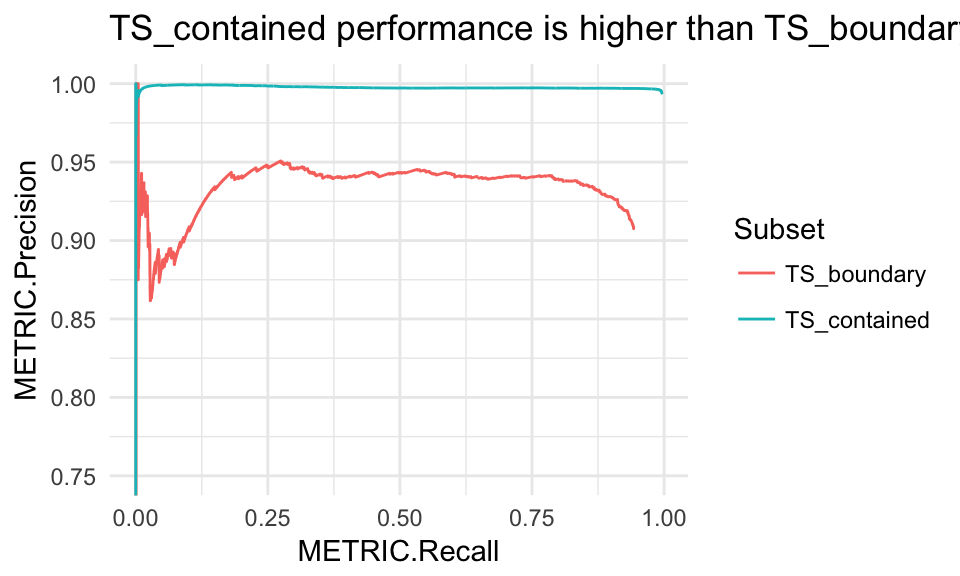
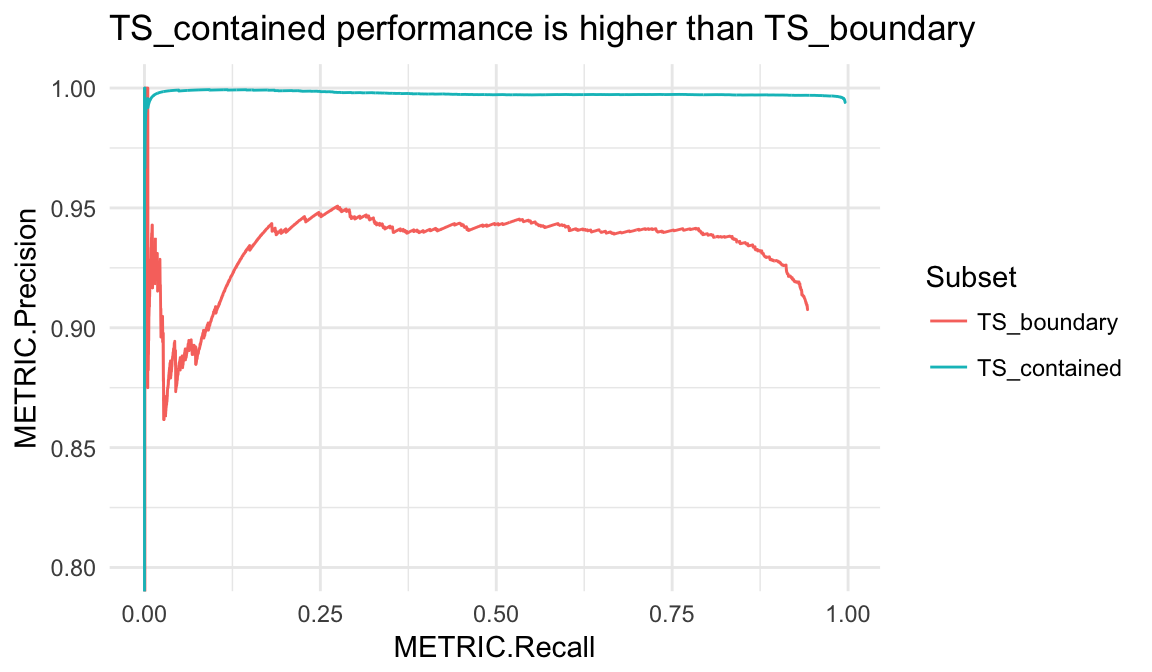
vignette tweak

diff --git a/docs/articles/Precision-recall_curves.html b/docs/articles/Precision-recall_curves.html
@@ -219,9 +219,9 @@ del_pr &lt;-<span class="st"> </span><span class="kw"><a href="../reference/pr_d
                   <span class="dt">subset =</span> <span class="kw">c</span>(<span class="st">"TS_contained"</span>, <span class="st">"TS_boundary"</span>))
 
 <span class="kw"><a href="http://www.rdocumentation.org/packages/ggplot2/topics/ggplot">ggplot</a></span>(snv_pr, <span class="kw"><a href="http://www.rdocumentation.org/packages/ggplot2/topics/aes">aes</a></span>(<span class="dt">x =</span> METRIC.Recall, <span class="dt">y =</span> METRIC.Precision, <span class="dt">col =</span> Subset)) +
-<span class="st">  </span><span class="kw"><a href="http://www.rdocumentation.org/packages/ggplot2/topics/geom_path">geom_line</a></span>() +<span class="st"> </span><span class="kw"><a href="http://www.rdocumentation.org/packages/ggplot2/topics/coord_cartesian">coord_cartesian</a></span>(<span class="dt">ylim =</span> <span class="kw">c</span>(.<span class="dv">75</span>, <span class="dv">1</span>)) +
-<span class="st">  </span><span class="kw"><a href="http://www.rdocumentation.org/packages/ggplot2/topics/labs">ggtitle</a></span>(<span class="st">"TS_contained performance is higher than TS_boundary subset"</span>)</code></pre></div>
-<p><img src="Precision-recall_curves_files/figure-html/snv_boundary-1.png" width="480" style="display: block; margin: auto;"></p>
+<span class="st">  </span><span class="kw"><a href="http://www.rdocumentation.org/packages/ggplot2/topics/geom_path">geom_line</a></span>() +<span class="st"> </span><span class="kw"><a href="http://www.rdocumentation.org/packages/ggplot2/topics/coord_cartesian">coord_cartesian</a></span>(<span class="dt">ylim =</span> <span class="kw">c</span>(.<span class="dv">8</span>, <span class="dv">1</span>)) +
+<span class="st">  </span><span class="kw"><a href="http://www.rdocumentation.org/packages/ggplot2/topics/labs">ggtitle</a></span>(<span class="st">"TS_contained performance is higher than TS_boundary"</span>)</code></pre></div>
+<p><img src="Precision-recall_curves_files/figure-html/snv_boundary-1.png" width="576" style="display: block; margin: auto;"></p>
 </div>
 </div>
 </div>
